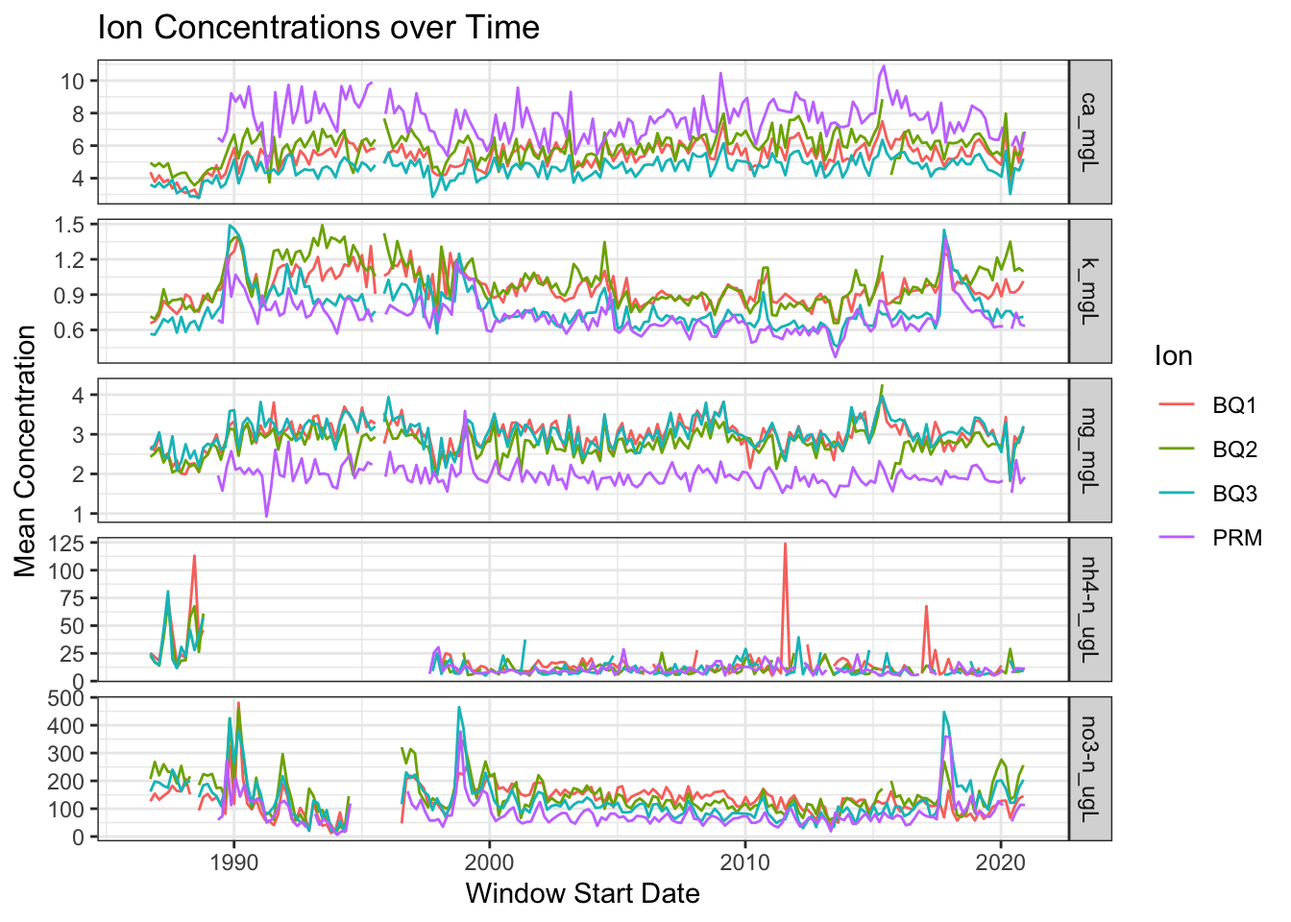
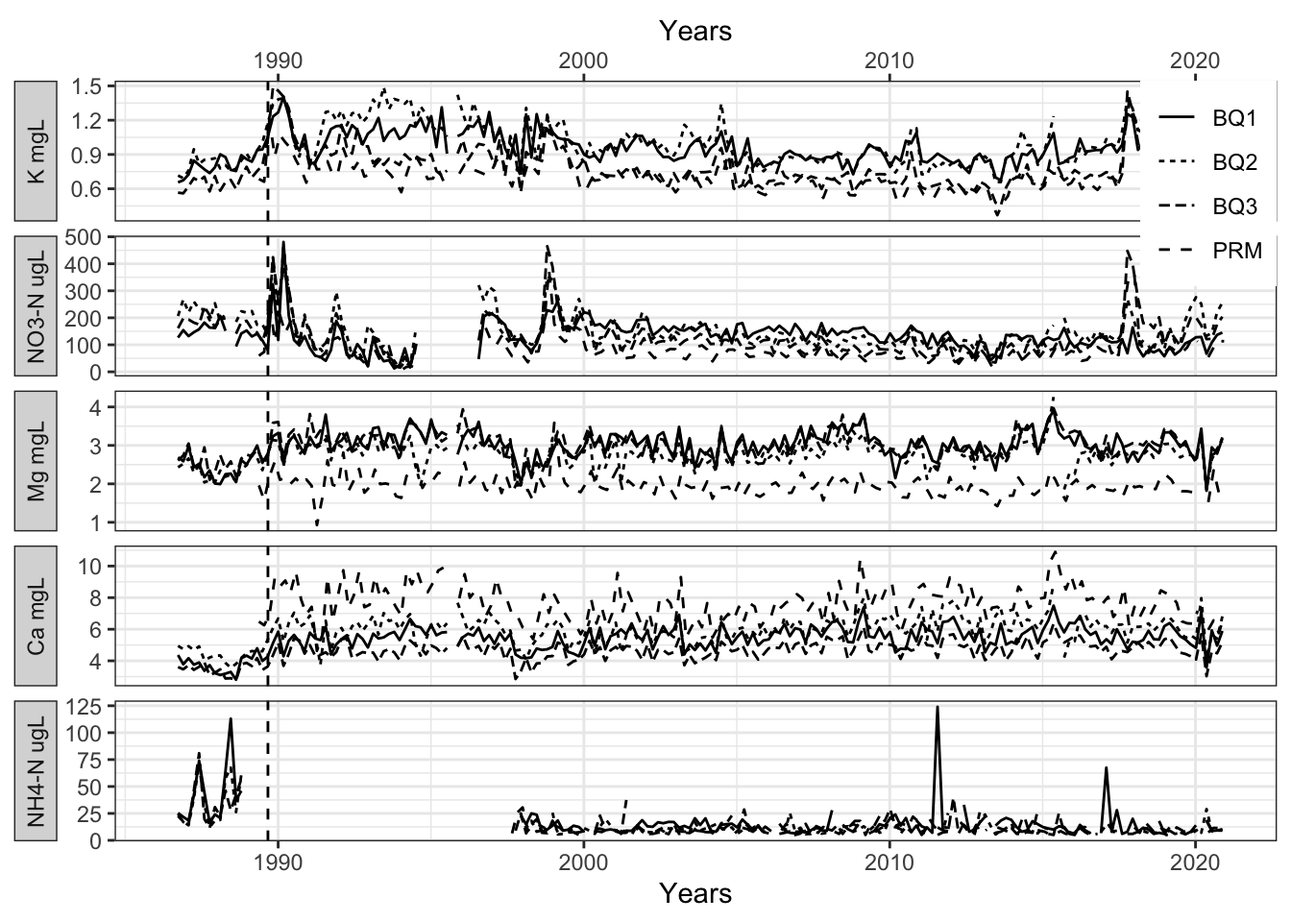
Updates to plot to address issue #6

diff --git a/docs/paper.html b/docs/paper.html
@@ -110,11 +110,14 @@ pre > code.sourceCode > span > a:first-child::before { text-decoration: underlin
 </div>
 <div class="code-copy-outer-scaffold"><div class="sourceCode cell-code" id="cb3"><pre class="sourceCode r code-with-copy"><code class="sourceCode r"><span id="cb3-1"><a href="#cb3-1" aria-hidden="true" tabindex="-1"></a><span class="fu">library</span>(reprex)</span>
 <span id="cb3-2"><a href="#cb3-2" aria-hidden="true" tabindex="-1"></a><span class="fu">library</span>(ggh4x)</span>
-<span id="cb3-3"><a href="#cb3-3" aria-hidden="true" tabindex="-1"></a><span class="fu">source</span>(<span class="st">"../R/moving-average.R"</span>)</span></code></pre></div><button title="Copy to Clipboard" class="code-copy-button"><i class="bi"></i></button></div>
+<span id="cb3-3"><a href="#cb3-3" aria-hidden="true" tabindex="-1"></a><span class="co"># Qmd RENDER source</span></span>
+<span id="cb3-4"><a href="#cb3-4" aria-hidden="true" tabindex="-1"></a><span class="fu">source</span>(<span class="st">"../R/moving-average.R"</span>)</span>
+<span id="cb3-5"><a href="#cb3-5" aria-hidden="true" tabindex="-1"></a><span class="co"># POSITRON CONSOLE source</span></span>
+<span id="cb3-6"><a href="#cb3-6" aria-hidden="true" tabindex="-1"></a><span class="co"># source(here::here("R/moving-average.R"))</span></span></code></pre></div><button title="Copy to Clipboard" class="code-copy-button"><i class="bi"></i></button></div>
 </div>
 <div class="quarto-figure quarto-figure-center">
 <figure class="figure">
-<p><img src="../figs/Schaefer_etal_2000_Figure3.png" class="img-fluid figure-img"></p>
+<p><img src="here::here(figs/Schaefer_etal_2000_Figure3.png)" class="img-fluid figure-img"></p>
 <figcaption>Schaefer et al.&nbsp;(2000) Figure 3</figcaption>
 </figure>
 </div>
@@ -124,7 +127,7 @@ pre > code.sourceCode > span > a:first-child::before { text-decoration: underlin
 <h2 class="anchored" data-anchor-id="data">Data</h2>
 <p>The below code generates a summary of one out the 4 data sets downloaded for this project.</p>
 <div class="cell">
-<div class="code-copy-outer-scaffold"><div class="sourceCode cell-code" id="cb4"><pre class="sourceCode r code-with-copy"><code class="sourceCode r"><span id="cb4-1"><a href="#cb4-1" aria-hidden="true" tabindex="-1"></a><span class="co"># Read in data</span></span>
+<div class="code-copy-outer-scaffold"><div class="sourceCode cell-code" id="cb4"><pre class="sourceCode r code-with-copy"><code class="sourceCode r"><span id="cb4-1"><a href="#cb4-1" aria-hidden="true" tabindex="-1"></a><span class="co"># Read in data - QUARTO RENDER</span></span>
 <span id="cb4-2"><a href="#cb4-2" aria-hidden="true" tabindex="-1"></a>Q1_Bisley_data <span class="ot">&lt;-</span> <span class="fu">read_csv</span>(<span class="st">"../data/QuebradaCuenca1-Bisley.csv"</span>)</span></code></pre></div><button title="Copy to Clipboard" class="code-copy-button"><i class="bi"></i></button></div>
 <div class="cell-output cell-output-stderr">
 <pre><code>Warning: One or more parsing issues, call `problems()` on your data frame for details,
@@ -183,117 +186,100 @@ date  (1): Sample_Date
 ℹ Use `spec()` to retrieve the full column specification for this data.
 ℹ Specify the column types or set `show_col_types = FALSE` to quiet this message.</code></pre>
 </div>
-<div class="code-copy-outer-scaffold"><div class="sourceCode cell-code" id="cb13"><pre class="sourceCode r code-with-copy"><code class="sourceCode r"><span id="cb13-1"><a href="#cb13-1" aria-hidden="true" tabindex="-1"></a>units_data <span class="ot">&lt;-</span> <span class="fu">read_csv</span>(<span class="st">"../data/LUQ LTER MDLs.csv"</span>)</span></code></pre></div><button title="Copy to Clipboard" class="code-copy-button"><i class="bi"></i></button></div>
-<div class="cell-output cell-output-stderr">
-<pre><code>Rows: 14 Columns: 3
-── Column specification ────────────────────────────────────────────────────────
-Delimiter: ","
-chr (2): Analyte, Units
-dbl (1): MDL
-
-ℹ Use `spec()` to retrieve the full column specification for this data.
-ℹ Specify the column types or set `show_col_types = FALSE` to quiet this message.</code></pre>
-</div>
-<div class="code-copy-outer-scaffold"><div class="sourceCode cell-code" id="cb15"><pre class="sourceCode r code-with-copy"><code class="sourceCode r"><span id="cb15-1"><a href="#cb15-1" aria-hidden="true" tabindex="-1"></a><span class="fu">glimpse</span>(Q1_Bisley_data)</span></code></pre></div><button title="Copy to Clipboard" class="code-copy-button"><i class="bi"></i></button></div>
-<div class="cell-output cell-output-stdout">
-<pre><code>Rows: 1,847
-Columns: 39
-$ Sample_ID     &lt;chr&gt; "Q1", "Q1", "Q1", "Q1", "Q1", "Q1", "Q1", "Q1", "Q1", "Q…
-$ Code          &lt;dbl&gt; 100012001, 100012002, 100012003, 100012004, 100012005, 1…
-$ Sample_Date   &lt;date&gt; 1986-05-20, 1986-05-27, 1986-06-03, 1986-10-21, 1986-10…
-$ Sample_Time   &lt;dbl&gt; NA, NA, NA, 1302, 1124, 1150, 1030, 859, 840, 925, 831, …
-$ Gage_Ht       &lt;dbl&gt; NA, NA, NA, NA, NA, NA, NA, NA, NA, NA, NA, NA, NA, NA, …
-$ Temp          &lt;dbl&gt; NA, NA, NA, 24.0, 23.0, 23.0, 22.0, 22.0, 22.0, 22.0, 22…
-$ pH            &lt;dbl&gt; 7.35, 7.48, 7.36, 7.39, 7.34, 7.45, 7.36, 7.36, 7.15, 7.…
-$ Cond          &lt;dbl&gt; 90.1, 85.4, 85.4, 88.5, 91.4, 87.7, 74.8, 83.0, 43.9, 80…
-$ Cl            &lt;dbl&gt; 8.2, NA, NA, 8.7, 8.5, 8.5, 7.8, 8.5, 6.4, 8.4, 8.3, 8.3…
-$ `NO3-N`       &lt;dbl&gt; 118, 109, 114, 124, NA, NA, 103, 153, 264, 158, 106, 146…
-$ `SO4-S`       &lt;dbl&gt; 1.75, 1.74, NA, NA, NA, NA, NA, NA, NA, NA, 1.78, NA, 1.…
-$ Na            &lt;dbl&gt; 7.81, 8.00, 7.95, 8.39, 8.55, 8.70, 7.12, 8.33, 4.33, 7.…
-$ K             &lt;dbl&gt; 0.81, 0.82, 0.82, 0.65, 0.62, 0.64, 0.69, 0.68, 0.77, 0.…
-$ Mg            &lt;dbl&gt; 3.04, 3.13, 3.15, 2.73, 2.86, 2.80, 2.40, 2.66, 1.19, 2.…
-$ Ca            &lt;dbl&gt; 4.26, 3.17, 4.38, 4.91, 4.60, 4.45, 3.93, 3.95, 2.11, 3.…
-$ `NH4-N`       &lt;dbl&gt; NA, NA, NA, 10, 40, 10, 47, 20, NA, 16, 10, 10, 23, 20, …
-$ `PO4-P`       &lt;dbl&gt; NA, NA, NA, NA, NA, NA, NA, NA, NA, NA, NA, NA, NA, NA, …
-$ DOC           &lt;dbl&gt; NA, NA, NA, 0.30, 0.44, 0.24, 1.37, NA, 5.77, 0.52, 0.32…
-$ DIC           &lt;dbl&gt; NA, NA, NA, 6.52, 8.10, 4.88, 6.21, 8.23, 3.18, 7.59, 8.…
-$ TDN           &lt;dbl&gt; NA, NA, NA, NA, NA, NA, NA, NA, NA, NA, NA, NA, NA, NA, …
-$ TDP           &lt;lgl&gt; NA, NA, NA, NA, NA, NA, NA, NA, NA, NA, NA, NA, NA, NA, …
-$ SiO2          &lt;dbl&gt; NA, NA, NA, 35.3, 35.5, 35.1, 29.8, 33.5, 12.3, 31.8, 33…
-$ DON           &lt;dbl&gt; NA, NA, NA, NA, NA, NA, NA, NA, NA, NA, NA, NA, NA, NA, …
-$ ChlorideCode  &lt;lgl&gt; NA, NA, NA, NA, NA, NA, NA, NA, NA, NA, NA, NA, NA, NA, …
-$ NitrateCode   &lt;chr&gt; NA, NA, NA, NA, NA, NA, NA, NA, NA, NA, NA, NA, NA, NA, …
-$ SulfateCode   &lt;chr&gt; NA, NA, NA, NA, NA, NA, NA, NA, NA, NA, NA, NA, NA, NA, …
-$ SodiumCode    &lt;lgl&gt; NA, NA, NA, NA, NA, NA, NA, NA, NA, NA, NA, NA, NA, NA, …
-$ PotassiumCode &lt;lgl&gt; NA, NA, NA, NA, NA, NA, NA, NA, NA, NA, NA, NA, NA, NA, …
-$ MagnesiumCode &lt;lgl&gt; NA, NA, NA, NA, NA, NA, NA, NA, NA, NA, NA, NA, NA, NA, …
-$ CalciumCode   &lt;lgl&gt; NA, NA, NA, NA, NA, NA, NA, NA, NA, NA, NA, NA, NA, NA, …
-$ NH4Code       &lt;chr&gt; NA, NA, NA, NA, NA, NA, NA, NA, NA, NA, NA, NA, NA, NA, …
-$ PO4Code       &lt;chr&gt; NA, NA, NA, NA, NA, NA, NA, NA, NA, NA, NA, NA, NA, NA, …
-$ DOCCode       &lt;chr&gt; NA, NA, NA, NA, NA, NA, NA, NA, NA, NA, NA, NA, "BDL", N…
-$ DICCode       &lt;lgl&gt; NA, NA, NA, NA, NA, NA, NA, NA, NA, NA, NA, NA, NA, NA, …
-$ TDNCode       &lt;chr&gt; NA, NA, NA, NA, NA, NA, NA, NA, NA, NA, NA, NA, NA, NA, …
-$ SiO2Code      &lt;lgl&gt; NA, NA, NA, NA, NA, NA, NA, NA, NA, NA, NA, NA, NA, NA, …
-$ DONCode       &lt;chr&gt; NA, NA, NA, NA, NA, NA, NA, NA, NA, NA, NA, NA, NA, NA, …
-$ TSS           &lt;dbl&gt; NA, NA, NA, NA, 21.70, 27.00, 36.30, 17.10, 225.30, 20.0…
-$ Turbidity     &lt;lgl&gt; NA, NA, NA, NA, NA, NA, NA, NA, NA, NA, NA, NA, NA, NA, …</code></pre>
-</div>
+<div class="code-copy-outer-scaffold"><div class="sourceCode cell-code" id="cb13"><pre class="sourceCode r code-with-copy"><code class="sourceCode r"><span id="cb13-1"><a href="#cb13-1" aria-hidden="true" tabindex="-1"></a><span class="co"># Read in data - POSITRON CONSOLE</span></span>
+<span id="cb13-2"><a href="#cb13-2" aria-hidden="true" tabindex="-1"></a><span class="co"># Q1_Bisley_data &lt;- read_csv(here::here("data/QuebradaCuenca1-Bisley.csv"))</span></span>
+<span id="cb13-3"><a href="#cb13-3" aria-hidden="true" tabindex="-1"></a><span class="co"># Q2_Bisley_data &lt;- read_csv(here::here("data/QuebradaCuenca2-Bisley.csv"))</span></span>
+<span id="cb13-4"><a href="#cb13-4" aria-hidden="true" tabindex="-1"></a><span class="co"># Q3_Bisley_data &lt;- read_csv(here::here("data/QuebradaCuenca3-Bisley.csv"))</span></span>
+<span id="cb13-5"><a href="#cb13-5" aria-hidden="true" tabindex="-1"></a><span class="co"># PRM_data &lt;- read_csv(here::here("data/RioMameyesPuenteRoto.csv"))</span></span></code></pre></div><button title="Copy to Clipboard" class="code-copy-button"><i class="bi"></i></button></div>
 </div>
 </section>
 <section id="methods" class="level2">
 <h2 class="anchored" data-anchor-id="methods">Methods</h2>
 <p>For each site data set, the moving average was calculated across a 9 week measurement window for each of the five ions. These moving averages were then plotted in a line graph</p>
 <div class="cell">
-<div class="code-copy-outer-scaffold"><div class="sourceCode cell-code" id="cb17"><pre class="sourceCode r code-with-copy"><code class="sourceCode r"><span id="cb17-1"><a href="#cb17-1" aria-hidden="true" tabindex="-1"></a><span class="co"># Call moving average function from R/ for each of the 4 data df</span></span>
-<span id="cb17-2"><a href="#cb17-2" aria-hidden="true" tabindex="-1"></a>sm_Q1_Bisley_data <span class="ot">&lt;-</span> <span class="fu">moving_average</span>(Q1_Bisley_data)</span>
-<span id="cb17-3"><a href="#cb17-3" aria-hidden="true" tabindex="-1"></a>sm_Q1_Bisley_data <span class="ot">&lt;-</span> sm_Q1_Bisley_data <span class="sc">|&gt;</span> <span class="fu">mutate</span>(<span class="at">Site_ID =</span> <span class="st">"BQ1"</span>)</span>
-<span id="cb17-4"><a href="#cb17-4" aria-hidden="true" tabindex="-1"></a>sm_Q2_Bisley_data <span class="ot">&lt;-</span> <span class="fu">moving_average</span>(Q2_Bisley_data)</span>
-<span id="cb17-5"><a href="#cb17-5" aria-hidden="true" tabindex="-1"></a>sm_Q2_Bisley_data <span class="ot">&lt;-</span> sm_Q2_Bisley_data <span class="sc">|&gt;</span> <span class="fu">mutate</span>(<span class="at">Site_ID =</span> <span class="st">"BQ2"</span>)</span>
-<span id="cb17-6"><a href="#cb17-6" aria-hidden="true" tabindex="-1"></a>sm_Q3_Bisley_data <span class="ot">&lt;-</span> <span class="fu">moving_average</span>(Q3_Bisley_data)</span>
-<span id="cb17-7"><a href="#cb17-7" aria-hidden="true" tabindex="-1"></a>sm_Q3_Bisley_data <span class="ot">&lt;-</span> sm_Q3_Bisley_data <span class="sc">|&gt;</span> <span class="fu">mutate</span>(<span class="at">Site_ID =</span> <span class="st">"BQ3"</span>)</span>
-<span id="cb17-8"><a href="#cb17-8" aria-hidden="true" tabindex="-1"></a>sm_PRM_data <span class="ot">&lt;-</span> <span class="fu">moving_average</span>(PRM_data)</span>
-<span id="cb17-9"><a href="#cb17-9" aria-hidden="true" tabindex="-1"></a>sm_PRM_data <span class="ot">&lt;-</span> sm_PRM_data <span class="sc">|&gt;</span> <span class="fu">mutate</span>(<span class="at">Site_ID =</span> <span class="st">"PRM"</span>)</span>
-<span id="cb17-10"><a href="#cb17-10" aria-hidden="true" tabindex="-1"></a></span>
-<span id="cb17-11"><a href="#cb17-11" aria-hidden="true" tabindex="-1"></a><span class="co"># Combine smoothed data from all 4 sites</span></span>
-<span id="cb17-12"><a href="#cb17-12" aria-hidden="true" tabindex="-1"></a>combo_smooth_data <span class="ot">&lt;-</span> <span class="fu">rbind</span>(</span>
-<span id="cb17-13"><a href="#cb17-13" aria-hidden="true" tabindex="-1"></a>  sm_Q1_Bisley_data,</span>
-<span id="cb17-14"><a href="#cb17-14" aria-hidden="true" tabindex="-1"></a>  sm_Q2_Bisley_data,</span>
-<span id="cb17-15"><a href="#cb17-15" aria-hidden="true" tabindex="-1"></a>  sm_Q3_Bisley_data,</span>
-<span id="cb17-16"><a href="#cb17-16" aria-hidden="true" tabindex="-1"></a>  sm_PRM_data</span>
-<span id="cb17-17"><a href="#cb17-17" aria-hidden="true" tabindex="-1"></a>)</span></code></pre></div><button title="Copy to Clipboard" class="code-copy-button"><i class="bi"></i></button></div>
+<div class="code-copy-outer-scaffold"><div class="sourceCode cell-code" id="cb14"><pre class="sourceCode r code-with-copy"><code class="sourceCode r"><span id="cb14-1"><a href="#cb14-1" aria-hidden="true" tabindex="-1"></a><span class="co"># Call moving average function from R/ for each of the 4 data df</span></span>
+<span id="cb14-2"><a href="#cb14-2" aria-hidden="true" tabindex="-1"></a>sm_Q1_Bisley_data <span class="ot">&lt;-</span> <span class="fu">moving_average</span>(Q1_Bisley_data)</span>
+<span id="cb14-3"><a href="#cb14-3" aria-hidden="true" tabindex="-1"></a>sm_Q1_Bisley_data <span class="ot">&lt;-</span> sm_Q1_Bisley_data <span class="sc">|&gt;</span> <span class="fu">mutate</span>(<span class="at">Site_ID =</span> <span class="st">"BQ1"</span>)</span>
+<span id="cb14-4"><a href="#cb14-4" aria-hidden="true" tabindex="-1"></a>sm_Q2_Bisley_data <span class="ot">&lt;-</span> <span class="fu">moving_average</span>(Q2_Bisley_data)</span>
+<span id="cb14-5"><a href="#cb14-5" aria-hidden="true" tabindex="-1"></a>sm_Q2_Bisley_data <span class="ot">&lt;-</span> sm_Q2_Bisley_data <span class="sc">|&gt;</span> <span class="fu">mutate</span>(<span class="at">Site_ID =</span> <span class="st">"BQ2"</span>)</span>
+<span id="cb14-6"><a href="#cb14-6" aria-hidden="true" tabindex="-1"></a>sm_Q3_Bisley_data <span class="ot">&lt;-</span> <span class="fu">moving_average</span>(Q3_Bisley_data)</span>
+<span id="cb14-7"><a href="#cb14-7" aria-hidden="true" tabindex="-1"></a>sm_Q3_Bisley_data <span class="ot">&lt;-</span> sm_Q3_Bisley_data <span class="sc">|&gt;</span> <span class="fu">mutate</span>(<span class="at">Site_ID =</span> <span class="st">"BQ3"</span>)</span>
+<span id="cb14-8"><a href="#cb14-8" aria-hidden="true" tabindex="-1"></a>sm_PRM_data <span class="ot">&lt;-</span> <span class="fu">moving_average</span>(PRM_data)</span>
+<span id="cb14-9"><a href="#cb14-9" aria-hidden="true" tabindex="-1"></a>sm_PRM_data <span class="ot">&lt;-</span> sm_PRM_data <span class="sc">|&gt;</span> <span class="fu">mutate</span>(<span class="at">Site_ID =</span> <span class="st">"PRM"</span>)</span>
+<span id="cb14-10"><a href="#cb14-10" aria-hidden="true" tabindex="-1"></a></span>
+<span id="cb14-11"><a href="#cb14-11" aria-hidden="true" tabindex="-1"></a><span class="co"># Combine smoothed data from all 4 sites</span></span>
+<span id="cb14-12"><a href="#cb14-12" aria-hidden="true" tabindex="-1"></a>combo_smooth_data <span class="ot">&lt;-</span> <span class="fu">rbind</span>(</span>
+<span id="cb14-13"><a href="#cb14-13" aria-hidden="true" tabindex="-1"></a>  sm_Q1_Bisley_data,</span>
+<span id="cb14-14"><a href="#cb14-14" aria-hidden="true" tabindex="-1"></a>  sm_Q2_Bisley_data,</span>
+<span id="cb14-15"><a href="#cb14-15" aria-hidden="true" tabindex="-1"></a>  sm_Q3_Bisley_data,</span>
+<span id="cb14-16"><a href="#cb14-16" aria-hidden="true" tabindex="-1"></a>  sm_PRM_data</span>
+<span id="cb14-17"><a href="#cb14-17" aria-hidden="true" tabindex="-1"></a>)</span></code></pre></div><button title="Copy to Clipboard" class="code-copy-button"><i class="bi"></i></button></div>
 </div>
 </section>
 <section id="results" class="level2">
 <h2 class="anchored" data-anchor-id="results">Results</h2>
 <div class="cell">
-<div class="code-copy-outer-scaffold"><div class="sourceCode cell-code" id="cb18"><pre class="sourceCode r code-with-copy"><code class="sourceCode r"><span id="cb18-1"><a href="#cb18-1" aria-hidden="true" tabindex="-1"></a><span class="co"># Pivot longer to create ion columns</span></span>
-<span id="cb18-2"><a href="#cb18-2" aria-hidden="true" tabindex="-1"></a>smooth_data_longer <span class="ot">&lt;-</span> combo_smooth_data <span class="sc">|&gt;</span></span>
-<span id="cb18-3"><a href="#cb18-3" aria-hidden="true" tabindex="-1"></a>  <span class="fu">pivot_longer</span>(</span>
-<span id="cb18-4"><a href="#cb18-4" aria-hidden="true" tabindex="-1"></a>    <span class="at">cols =</span> k_mgL<span class="sc">:</span><span class="st">`</span><span class="at">nh4-n_ugL</span><span class="st">`</span>,</span>
-<span id="cb18-5"><a href="#cb18-5" aria-hidden="true" tabindex="-1"></a>    <span class="at">names_to =</span> <span class="st">"Ion"</span>,</span>
-<span id="cb18-6"><a href="#cb18-6" aria-hidden="true" tabindex="-1"></a>    <span class="at">values_to =</span> <span class="st">"Mean_Concentration"</span></span>
-<span id="cb18-7"><a href="#cb18-7" aria-hidden="true" tabindex="-1"></a>  )</span>
-<span id="cb18-8"><a href="#cb18-8" aria-hidden="true" tabindex="-1"></a></span>
-<span id="cb18-9"><a href="#cb18-9" aria-hidden="true" tabindex="-1"></a><span class="co"># Visualization - Line Plot</span></span>
-<span id="cb18-10"><a href="#cb18-10" aria-hidden="true" tabindex="-1"></a></span>
-<span id="cb18-11"><a href="#cb18-11" aria-hidden="true" tabindex="-1"></a><span class="co"># Line plot - ggplot2, facet_grid()</span></span>
-<span id="cb18-12"><a href="#cb18-12" aria-hidden="true" tabindex="-1"></a><span class="fu">ggplot</span>(</span>
-<span id="cb18-13"><a href="#cb18-13" aria-hidden="true" tabindex="-1"></a>  <span class="at">data =</span> smooth_data_longer,</span>
-<span id="cb18-14"><a href="#cb18-14" aria-hidden="true" tabindex="-1"></a>  <span class="at">mapping =</span> <span class="fu">aes</span>(</span>
-<span id="cb18-15"><a href="#cb18-15" aria-hidden="true" tabindex="-1"></a>    <span class="at">x =</span> window_start,</span>
-<span id="cb18-16"><a href="#cb18-16" aria-hidden="true" tabindex="-1"></a>    <span class="at">y =</span> Mean_Concentration,</span>
-<span id="cb18-17"><a href="#cb18-17" aria-hidden="true" tabindex="-1"></a>    <span class="at">color =</span> Site_ID</span>
-<span id="cb18-18"><a href="#cb18-18" aria-hidden="true" tabindex="-1"></a>  )</span>
-<span id="cb18-19"><a href="#cb18-19" aria-hidden="true" tabindex="-1"></a>) <span class="sc">+</span></span>
-<span id="cb18-20"><a href="#cb18-20" aria-hidden="true" tabindex="-1"></a>  <span class="fu">geom_line</span>() <span class="sc">+</span></span>
-<span id="cb18-21"><a href="#cb18-21" aria-hidden="true" tabindex="-1"></a>  <span class="fu">theme_bw</span>() <span class="sc">+</span></span>
-<span id="cb18-22"><a href="#cb18-22" aria-hidden="true" tabindex="-1"></a>  <span class="fu">labs</span>(</span>
-<span id="cb18-23"><a href="#cb18-23" aria-hidden="true" tabindex="-1"></a>    <span class="at">title =</span> <span class="st">"Ion Concentrations over Time"</span>,</span>
-<span id="cb18-24"><a href="#cb18-24" aria-hidden="true" tabindex="-1"></a>    <span class="at">x =</span> <span class="st">"Window Start Date"</span>,</span>
-<span id="cb18-25"><a href="#cb18-25" aria-hidden="true" tabindex="-1"></a>    <span class="at">y =</span> <span class="st">"Mean Concentration"</span>,</span>
-<span id="cb18-26"><a href="#cb18-26" aria-hidden="true" tabindex="-1"></a>    <span class="at">color =</span> <span class="st">"Ion"</span></span>
-<span id="cb18-27"><a href="#cb18-27" aria-hidden="true" tabindex="-1"></a>  ) <span class="sc">+</span></span>
-<span id="cb18-28"><a href="#cb18-28" aria-hidden="true" tabindex="-1"></a>  <span class="fu">facet_grid</span>(Ion <span class="sc">~</span> ., <span class="at">scales =</span> <span class="st">"free_y"</span>)</span></code></pre></div><button title="Copy to Clipboard" class="code-copy-button"><i class="bi"></i></button></div>
+<div class="code-copy-outer-scaffold"><div class="sourceCode cell-code" id="cb15"><pre class="sourceCode r code-with-copy"><code class="sourceCode r"><span id="cb15-1"><a href="#cb15-1" aria-hidden="true" tabindex="-1"></a><span class="co"># Pivot longer to create ion columns</span></span>
+<span id="cb15-2"><a href="#cb15-2" aria-hidden="true" tabindex="-1"></a>smooth_data_longer <span class="ot">&lt;-</span> combo_smooth_data <span class="sc">|&gt;</span></span>
+<span id="cb15-3"><a href="#cb15-3" aria-hidden="true" tabindex="-1"></a>  <span class="fu">pivot_longer</span>(</span>
+<span id="cb15-4"><a href="#cb15-4" aria-hidden="true" tabindex="-1"></a>    <span class="at">cols =</span> k_mgL<span class="sc">:</span><span class="st">`</span><span class="at">nh4-n_ugL</span><span class="st">`</span>,</span>
+<span id="cb15-5"><a href="#cb15-5" aria-hidden="true" tabindex="-1"></a>    <span class="at">names_to =</span> <span class="st">"Ion"</span>,</span>
+<span id="cb15-6"><a href="#cb15-6" aria-hidden="true" tabindex="-1"></a>    <span class="at">values_to =</span> <span class="st">"Mean_Concentration"</span></span>
+<span id="cb15-7"><a href="#cb15-7" aria-hidden="true" tabindex="-1"></a>  )</span>
+<span id="cb15-8"><a href="#cb15-8" aria-hidden="true" tabindex="-1"></a></span>
+<span id="cb15-9"><a href="#cb15-9" aria-hidden="true" tabindex="-1"></a><span class="co"># Visualization - Line Plot</span></span>
+<span id="cb15-10"><a href="#cb15-10" aria-hidden="true" tabindex="-1"></a></span>
+<span id="cb15-11"><a href="#cb15-11" aria-hidden="true" tabindex="-1"></a><span class="co"># Line plot - ggplot2, facet_grid()</span></span>
+<span id="cb15-12"><a href="#cb15-12" aria-hidden="true" tabindex="-1"></a>smooth_data_longer <span class="sc">|&gt;</span></span>
+<span id="cb15-13"><a href="#cb15-13" aria-hidden="true" tabindex="-1"></a>  <span class="fu">mutate</span>(</span>
+<span id="cb15-14"><a href="#cb15-14" aria-hidden="true" tabindex="-1"></a>    <span class="at">Ion =</span> <span class="fu">fct_recode</span>(</span>
+<span id="cb15-15"><a href="#cb15-15" aria-hidden="true" tabindex="-1"></a>      Ion,</span>
+<span id="cb15-16"><a href="#cb15-16" aria-hidden="true" tabindex="-1"></a>      <span class="st">`</span><span class="at">K mgL</span><span class="st">`</span> <span class="ot">=</span> <span class="st">"k_mgL"</span>,</span>
+<span id="cb15-17"><a href="#cb15-17" aria-hidden="true" tabindex="-1"></a>      <span class="st">`</span><span class="at">NO3-N ugL</span><span class="st">`</span> <span class="ot">=</span> <span class="st">"no3-n_ugL"</span>,</span>
+<span id="cb15-18"><a href="#cb15-18" aria-hidden="true" tabindex="-1"></a>      <span class="st">`</span><span class="at">Mg mgL</span><span class="st">`</span> <span class="ot">=</span> <span class="st">"mg_mgL"</span>,</span>
+<span id="cb15-19"><a href="#cb15-19" aria-hidden="true" tabindex="-1"></a>      <span class="st">`</span><span class="at">Ca mgL</span><span class="st">`</span> <span class="ot">=</span> <span class="st">"ca_mgL"</span>,</span>
+<span id="cb15-20"><a href="#cb15-20" aria-hidden="true" tabindex="-1"></a>      <span class="st">`</span><span class="at">NH4-N ugL</span><span class="st">`</span> <span class="ot">=</span> <span class="st">"nh4-n_ugL"</span></span>
+<span id="cb15-21"><a href="#cb15-21" aria-hidden="true" tabindex="-1"></a>    ),</span>
+<span id="cb15-22"><a href="#cb15-22" aria-hidden="true" tabindex="-1"></a>    <span class="at">Ion =</span> <span class="fu">fct_relevel</span>(</span>
+<span id="cb15-23"><a href="#cb15-23" aria-hidden="true" tabindex="-1"></a>      Ion,</span>
+<span id="cb15-24"><a href="#cb15-24" aria-hidden="true" tabindex="-1"></a>      <span class="st">"K mgL"</span>,</span>
+<span id="cb15-25"><a href="#cb15-25" aria-hidden="true" tabindex="-1"></a>      <span class="st">"NO3-N ugL"</span>,</span>
+<span id="cb15-26"><a href="#cb15-26" aria-hidden="true" tabindex="-1"></a>      <span class="st">"Mg mgL"</span>,</span>
+<span id="cb15-27"><a href="#cb15-27" aria-hidden="true" tabindex="-1"></a>      <span class="st">"Ca mgL"</span>,</span>
+<span id="cb15-28"><a href="#cb15-28" aria-hidden="true" tabindex="-1"></a>      <span class="st">"NH4-N ugL"</span></span>
+<span id="cb15-29"><a href="#cb15-29" aria-hidden="true" tabindex="-1"></a>    )</span>
+<span id="cb15-30"><a href="#cb15-30" aria-hidden="true" tabindex="-1"></a>  ) <span class="sc">|&gt;</span></span>
+<span id="cb15-31"><a href="#cb15-31" aria-hidden="true" tabindex="-1"></a>  <span class="fu">ggplot</span>(</span>
+<span id="cb15-32"><a href="#cb15-32" aria-hidden="true" tabindex="-1"></a>    <span class="at">mapping =</span> <span class="fu">aes</span>(</span>
+<span id="cb15-33"><a href="#cb15-33" aria-hidden="true" tabindex="-1"></a>      <span class="at">x =</span> window_start,</span>
+<span id="cb15-34"><a href="#cb15-34" aria-hidden="true" tabindex="-1"></a>      <span class="at">y =</span> Mean_Concentration,</span>
+<span id="cb15-35"><a href="#cb15-35" aria-hidden="true" tabindex="-1"></a>      <span class="at">linetype =</span> Site_ID</span>
+<span id="cb15-36"><a href="#cb15-36" aria-hidden="true" tabindex="-1"></a>    )</span>
+<span id="cb15-37"><a href="#cb15-37" aria-hidden="true" tabindex="-1"></a>  ) <span class="sc">+</span></span>
+<span id="cb15-38"><a href="#cb15-38" aria-hidden="true" tabindex="-1"></a>  <span class="fu">geom_line</span>() <span class="sc">+</span></span>
+<span id="cb15-39"><a href="#cb15-39" aria-hidden="true" tabindex="-1"></a>  <span class="fu">theme_bw</span>() <span class="sc">+</span></span>
+<span id="cb15-40"><a href="#cb15-40" aria-hidden="true" tabindex="-1"></a>  <span class="fu">theme</span>(</span>
+<span id="cb15-41"><a href="#cb15-41" aria-hidden="true" tabindex="-1"></a>    <span class="at">legend.title =</span> <span class="fu">element_blank</span>(), <span class="co"># Remove legend title</span></span>
+<span id="cb15-42"><a href="#cb15-42" aria-hidden="true" tabindex="-1"></a>    <span class="at">axis.title.y =</span> <span class="fu">element_blank</span>(), <span class="co"># Remove y axis title</span></span>
+<span id="cb15-43"><a href="#cb15-43" aria-hidden="true" tabindex="-1"></a>    <span class="at">strip.placement =</span> <span class="st">"outside"</span>, <span class="co"># Move y labels (ions) outside y ticks</span></span>
+<span id="cb15-44"><a href="#cb15-44" aria-hidden="true" tabindex="-1"></a>    <span class="at">legend.position =</span> <span class="fu">c</span>(<span class="dv">1</span>, <span class="dv">1</span>), <span class="co"># Coordinates for the top-left corner inside the panel</span></span>
+<span id="cb15-45"><a href="#cb15-45" aria-hidden="true" tabindex="-1"></a>    <span class="at">legend.justification =</span> <span class="fu">c</span>(<span class="dv">1</span>, <span class="dv">1</span>), <span class="co"># Anchor top-left of the legend box to the coordinate</span></span>
+<span id="cb15-46"><a href="#cb15-46" aria-hidden="true" tabindex="-1"></a>  ) <span class="sc">+</span></span>
+<span id="cb15-47"><a href="#cb15-47" aria-hidden="true" tabindex="-1"></a>  <span class="fu">labs</span>(</span>
+<span id="cb15-48"><a href="#cb15-48" aria-hidden="true" tabindex="-1"></a>    <span class="at">x =</span> <span class="st">"Years"</span></span>
+<span id="cb15-49"><a href="#cb15-49" aria-hidden="true" tabindex="-1"></a>  ) <span class="sc">+</span></span>
+<span id="cb15-50"><a href="#cb15-50" aria-hidden="true" tabindex="-1"></a>  <span class="fu">facet_grid</span>(</span>
+<span id="cb15-51"><a href="#cb15-51" aria-hidden="true" tabindex="-1"></a>    Ion <span class="sc">~</span> .,</span>
+<span id="cb15-52"><a href="#cb15-52" aria-hidden="true" tabindex="-1"></a>    <span class="at">scales =</span> <span class="st">"free_y"</span>, <span class="co"># Independent y-axis scales per grid</span></span>
+<span id="cb15-53"><a href="#cb15-53" aria-hidden="true" tabindex="-1"></a>    <span class="at">switch =</span> <span class="st">"y"</span> <span class="co"># Move y ion labels to left side</span></span>
+<span id="cb15-54"><a href="#cb15-54" aria-hidden="true" tabindex="-1"></a>  ) <span class="sc">+</span></span>
+<span id="cb15-55"><a href="#cb15-55" aria-hidden="true" tabindex="-1"></a>  <span class="fu">scale_x_date</span>(<span class="at">sec.axis =</span> <span class="fu">dup_axis</span>()) <span class="sc">+</span></span>
+<span id="cb15-56"><a href="#cb15-56" aria-hidden="true" tabindex="-1"></a>  <span class="fu">geom_vline</span>(</span>
+<span id="cb15-57"><a href="#cb15-57" aria-hidden="true" tabindex="-1"></a>    <span class="at">xintercept =</span> <span class="fu">as.Date</span>(<span class="st">"1989-09-01"</span>),</span>
+<span id="cb15-58"><a href="#cb15-58" aria-hidden="true" tabindex="-1"></a>    <span class="at">color =</span> <span class="st">"black"</span>,</span>
+<span id="cb15-59"><a href="#cb15-59" aria-hidden="true" tabindex="-1"></a>    <span class="at">linetype =</span> <span class="st">"dashed"</span>,</span>
+<span id="cb15-60"><a href="#cb15-60" aria-hidden="true" tabindex="-1"></a>    <span class="at">linewidth =</span> <span class="fl">0.5</span></span>
+<span id="cb15-61"><a href="#cb15-61" aria-hidden="true" tabindex="-1"></a>  )</span></code></pre></div><button title="Copy to Clipboard" class="code-copy-button"><i class="bi"></i></button></div>
 <div class="cell-output cell-output-stderr">
 <pre><code>Warning: Removed 54 rows containing missing values or values outside the scale range
 (`geom_line()`).</code></pre>
